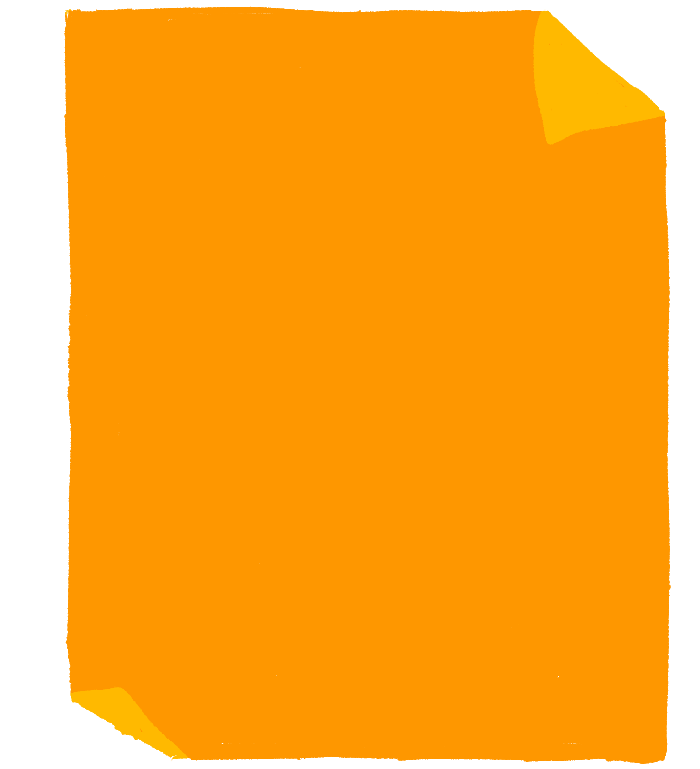
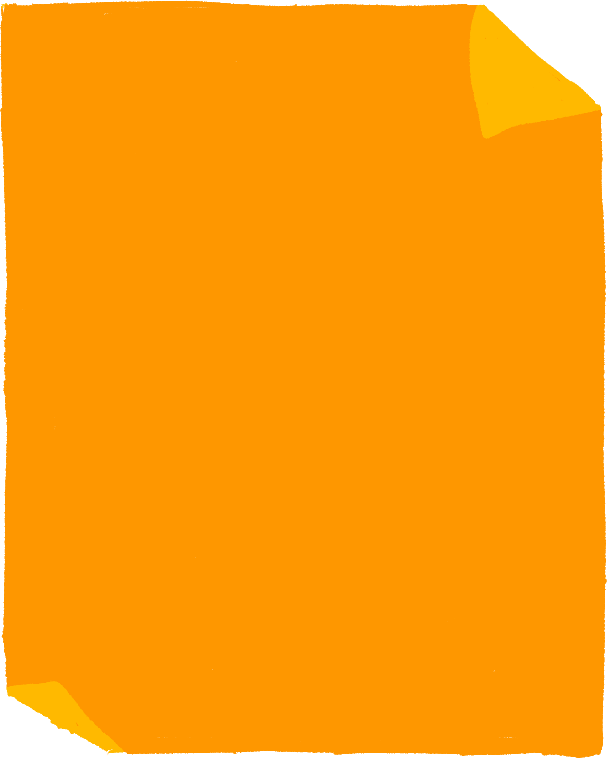
Edit values card

Changed region(s): [[0.0, 0.0, 1.0, 1.0]]

diff --git a/index.html b/index.html
@@ -184,7 +184,7 @@
 
                 <ul class="notes">
                     <li class="note">
-                        <img src="img/post_it.png" alt="">
+                        <img src="img/post_it_1.png" alt="">
                         <div class="note__text">
                             <h3>Wellbeing First</h3>
                             <p>Maintaining a healthy body and mind is what allows us to keep creating. The health of our fellow Sunfarers always comes first before any deadline or goal.</p>
@@ -200,9 +200,9 @@
                     </li>
 
                     <li class="note">
-                        <img src="img/post_it.png" alt="">
+                        <img src="img/post_it_1.png" alt="">
                         <div class="note__text">
-                            <h3>Every Voice Matters</h3>
+                            <h3>Every Voice <br> Matters</h3>
                             <p>
 All Sunfarers, no matter their position in the team, are encouraged to voice their ideas, thoughts and opinions, which will always be received with respect and curiosity.</p>
                         </div>
@@ -212,13 +212,13 @@ All Sunfarers, no matter their position in the team, are encouraged to voice the
                         <img src="img/post_it_2.png" alt="">
                         <div class="note__text">
                             <h3>
-                                Respect and Empathy</h3>
-                            <p>Sunfarers embrace and celebrate diversity. We always meet each other as equals and treat every Sunfarer with respect and kindness. </p>
+                                Respect and <br> Empathy</h3>
+                            <p>Sunfarers embrace and celebrate diversity. We always meet each other as equals and treat every Sunfarer with respect and kindness.</p>
                         </div>
                     </li>
 
                     <li class="note">
-                        <img src="img/post_it.png" alt="">
+                        <img src="img/post_it_1.png" alt="">
                         <div class="note__text">
                             <h3>Human-Made</h3>
                             <p>People are wonderfully creative and skillful beings. No generative AI will ever be used under Sunfarer.</p>

diff --git a/style.css b/style.css
@@ -400,6 +400,7 @@ section {
 .card--values {
    
     padding-inline: 1rem;
+    margin-bottom: 8px;
 }
  
 .notes {
@@ -412,14 +413,14 @@ section {
 
 .note {
     position: absolute;
-    width: 37%;
+    width: 41%;
 }
 
-.note:nth-child(1) { top:  -27%;  left:  -4%; transform: rotate(-4deg); }
-.note:nth-child(2) { top:  -25%;  right: -4%; transform: rotate(3deg);  }
-.note:nth-child(3) { top: 23%;  left:  31%; transform: rotate(-2deg); }
-.note:nth-child(4) { top: 53%;  left:  -2%; transform: rotate(4deg);  }
-.note:nth-child(5) { top: 55%;  right: -2%; transform: rotate(-3deg); }
+.note:nth-child(1) { top:  -15%;  left:  -8%; transform: rotate(-3deg); }
+.note:nth-child(2) { top:  -15%;  right: -8%; transform: rotate(3deg);  }
+.note:nth-child(3) { top: 15%;  left:  30%; transform: rotate(-3deg); }
+.note:nth-child(4) { top: 53%;  left:  -6%; transform: rotate(4deg);  }
+.note:nth-child(5) { top: 53%;  right: -8%; transform: rotate(-3deg); }
  
 .note img {
     width: 100%;
@@ -431,7 +432,7 @@ section {
 
 .note__text {
     position: absolute;
-    inset: 20%;
+    inset: 17%;
     display: flex;
     flex-direction: column;
     justify-content: center;
@@ -442,14 +443,14 @@ section {
 }
 
 .note__text p {
-    font-size: clamp(.45rem, 1.4vw, .6rem);
-    line-height: 1.25;
+    font-size: clamp(.7rem, 1.5vw, .8rem);
+    line-height: 1.1;
 }
 
 .note__text h3 {
     font-family: 'Patrick Hand SC', cursive;
     font-weight: 500;
-    font-size: clamp(.62rem, 2.1vw, .85rem);
+    font-size: clamp(1rem, 2.2vw, 1.3rem);
     line-height: 1.1;
 }
 
